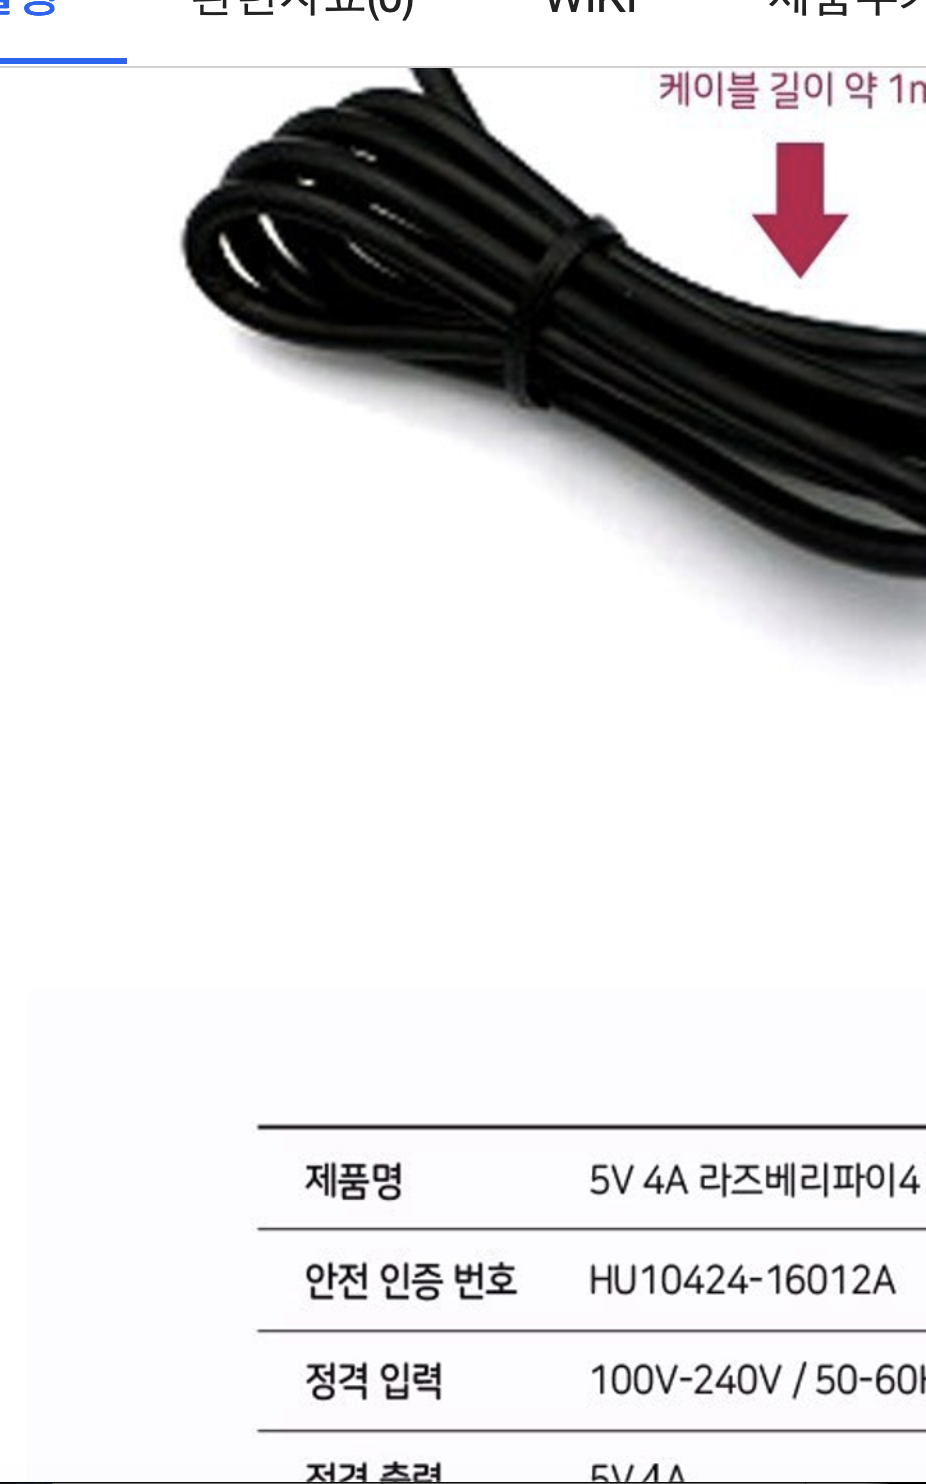
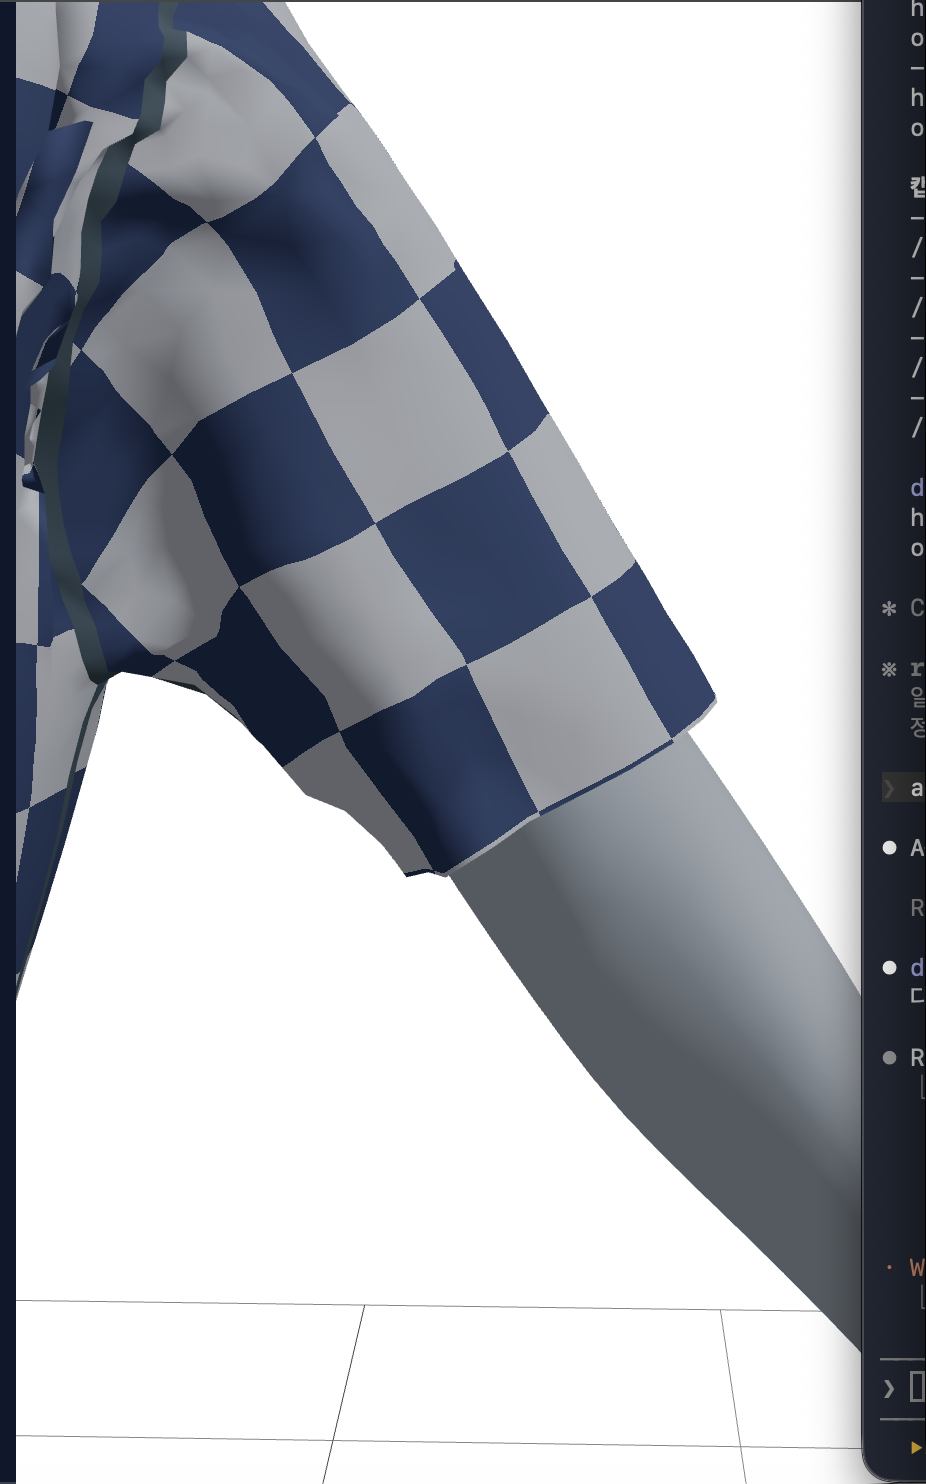
metrics: 65회차 A-cuff 재촬영(정착 대기 14s · 1차분 보존)

diff --git a/docs/metrics-log.md b/docs/metrics-log.md
@@ -10317,3 +10317,13 @@ S3도 63회차와 동일(관통 60 · 소매 55 · 소매 관여 10 · dress-sta
 - `코어=… 스무딩=…` 헤더 — **15회차 연속**
 
 기점: 991410e
+
+### 65회차 (추가) — A-cuff 재촬영
+`dress-state.json` md5 **14e50b8919a63a7f9799220b86e508a9** — 65회차 A와 **완전 일치**(같은 상태 재현).
+관통 귀속도 동일(정착 50 · 소매 47 · 94.0%). `CAPTURE_SETTLE` **9000 → 14000ms**, 그 외 동일 프리셋·동일 URL.
+```
+A-cuff.png      ee60b65ebe9fa48776fd6b792f2ab5e9  572,192 B  (재촬영 · 정본)
+A-cuff-1st.png  488fe109c8e07b6088bc54e39595e22d  557,834 B  (1차 · 보존)
+```
+md5가 다른 것은 정상이다 — 같은 상태라도 렌더가 비트 재현되지 않는다(안티에일리어싱·타이밍).
+**두 장의 차이가 유의한지는 화면 판정이고 전략 세션 몫이다 — 자체 선언 없음.**
